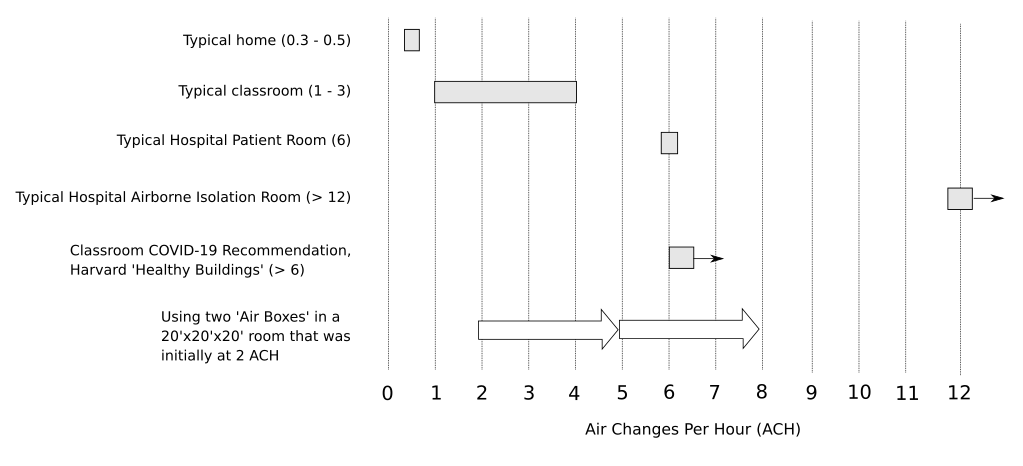
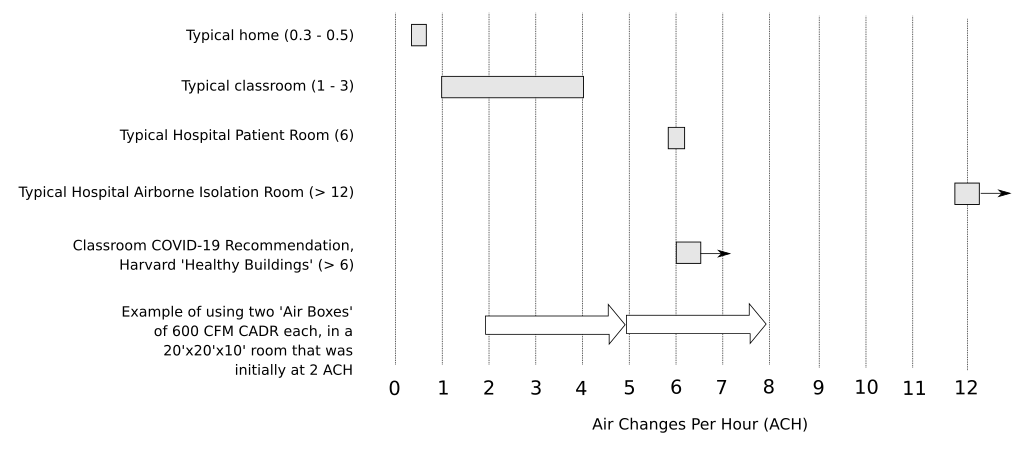
update

diff --git a/index.html b/index.html
@@ -10189,12 +10189,23 @@ between soil water and the water inside the tensiometer shaft.</p>
 <li>The Harvard School of Public Health has recommended an ACH of <strong>6 or greater</strong> for COVID-19 risk mitigation (note: this recommendation was made <em>before</em> recent, more transmissable variants, like Delta).</li>
 </ul>
 <!--![](/img/co2/corsi_impact.png)-->
-<p><img src="/img/co2/corsi_impact_edit.png" alt=""></p>
+<table>
+<thead>
+<tr>
+<th style="text-align:center"><img src="/img/co2/corsi_impact_edit.png" alt=""></th>
+</tr>
+</thead>
+<tbody>
+<tr>
+<td style="text-align:center"><strong>Potential impact of Corsi Air Boxes</strong>. We estimated that the DIY air filter we assembled has a clean air delivery rate of approximately 600 CFM.  Using Equation (1) below, and assuming a room of size 20'x20'x10', such a box will add the equivalent of +3 ACH to the room; two such boxes will add +6 ACH.  Some typical ventilation values (in Air Changes per Hour) are depicted for comparison, including the Harvard School of Public Health recommendation of 6+ ACH to help mitigate the transmission of COVID-19 in classrooms.</td>
+</tr>
+</tbody>
+</table>
 <p>We used an anemometer to estimate that one of the 'DIY Air filters' we built is capable of delivering the equivalent of <strong>600 CFM</strong> (cubic feet per minute) of 'cleaned' air to a room -- this is also referred to as the &quot;Clean Air Delivery Rate&quot; (CADR).  This estimate is based on the cubic feet per minute that flow through the fan on the device, multiplied by 'removal rate' percentage for the filters.</p>
 <p><strong>NOTE</strong>: the exact CFM / CADR for a DIY device will depend on the actual air flow through the device, which can vary with the construction / type and number of filters / model of fan.</p>
 <p>When the air purifier 'cleans' this volume of air and recirculates it back into a room, we can think of this as effectively increasing the ACH in the room.</p>
 <p>To estimate the equivalent ACH provided by a DIY air purifier, we use the following equation:</p>
-<pre><code>Equivalent ACH = CADR * 60 / Volume_of_room
+<pre><code>(1)  Equivalent ACH = CADR * 60 / Volume_of_room
 </code></pre>
 <p>For example, if a DIY air purifier has a CADR of about 600 CFM, then for a typical room volume -- e.g. 30 foot x 30 foot x 10 foot -- this results in an equivalent ACH of about +3.</p>
 <p>The equivalent ACH provided by air purification is 'additive' -- e.g. in the above scenario, two if you put two purifiers in the room that each have an equivalent ACH of 3, it results in an equivalent ACH of 6.</p>
@@ -10249,7 +10260,7 @@ between soil water and the water inside the tensiometer shaft.</p>
 <p>Revision 2021-08-08 20:48:55</p>
 <ul>
 <li>
-<p>Removed graphic with typo on impact of multiple airboxes until can create graphic with proper numbers.</p>
+<p>Replaced 'impact' graphic with a clearer depiction of an example impact of using two air boxes.</p>
 </li>
 <li>
 <p>Fixed typo on Home Depot price -- &quot;6 for $30&quot; --&gt; &quot;6 for $130&quot;</p>

diff --git a/airbox/index.html b/airbox/index.html
@@ -69,12 +69,23 @@
 <li>The Harvard School of Public Health has recommended an ACH of <strong>6 or greater</strong> for COVID-19 risk mitigation (note: this recommendation was made <em>before</em> recent, more transmissable variants, like Delta).</li>
 </ul>
 <!--![](/img/co2/corsi_impact.png)-->
-<p><img src="/img/co2/corsi_impact_edit.png" alt=""></p>
+<table>
+<thead>
+<tr>
+<th style="text-align:center"><img src="/img/co2/corsi_impact_edit.png" alt=""></th>
+</tr>
+</thead>
+<tbody>
+<tr>
+<td style="text-align:center"><strong>Potential impact of Corsi Air Boxes</strong>. We estimated that the DIY air filter we assembled has a clean air delivery rate of approximately 600 CFM.  Using Equation (1) below, and assuming a room of size 20'x20'x10', such a box will add the equivalent of +3 ACH to the room; two such boxes will add +6 ACH.  Some typical ventilation values (in Air Changes per Hour) are depicted for comparison, including the Harvard School of Public Health recommendation of 6+ ACH to help mitigate the transmission of COVID-19 in classrooms.</td>
+</tr>
+</tbody>
+</table>
 <p>We used an anemometer to estimate that one of the 'DIY Air filters' we built is capable of delivering the equivalent of <strong>600 CFM</strong> (cubic feet per minute) of 'cleaned' air to a room -- this is also referred to as the &quot;Clean Air Delivery Rate&quot; (CADR).  This estimate is based on the cubic feet per minute that flow through the fan on the device, multiplied by 'removal rate' percentage for the filters.</p>
 <p><strong>NOTE</strong>: the exact CFM / CADR for a DIY device will depend on the actual air flow through the device, which can vary with the construction / type and number of filters / model of fan.</p>
 <p>When the air purifier 'cleans' this volume of air and recirculates it back into a room, we can think of this as effectively increasing the ACH in the room.</p>
 <p>To estimate the equivalent ACH provided by a DIY air purifier, we use the following equation:</p>
-<pre><code>Equivalent ACH = CADR * 60 / Volume_of_room
+<pre><code>(1)  Equivalent ACH = CADR * 60 / Volume_of_room
 </code></pre>
 <p>For example, if a DIY air purifier has a CADR of about 600 CFM, then for a typical room volume -- e.g. 30 foot x 30 foot x 10 foot -- this results in an equivalent ACH of about +3.</p>
 <p>The equivalent ACH provided by air purification is 'additive' -- e.g. in the above scenario, two if you put two purifiers in the room that each have an equivalent ACH of 3, it results in an equivalent ACH of 6.</p>
@@ -129,7 +140,7 @@
 <p>Revision 2021-08-08 20:48:55</p>
 <ul>
 <li>
-<p>Removed graphic with typo on impact of multiple airboxes until can create graphic with proper numbers.</p>
+<p>Replaced 'impact' graphic with a clearer depiction of an example impact of using two air boxes.</p>
 </li>
 <li>
 <p>Fixed typo on Home Depot price -- &quot;6 for $30&quot; --&gt; &quot;6 for $130&quot;</p>
